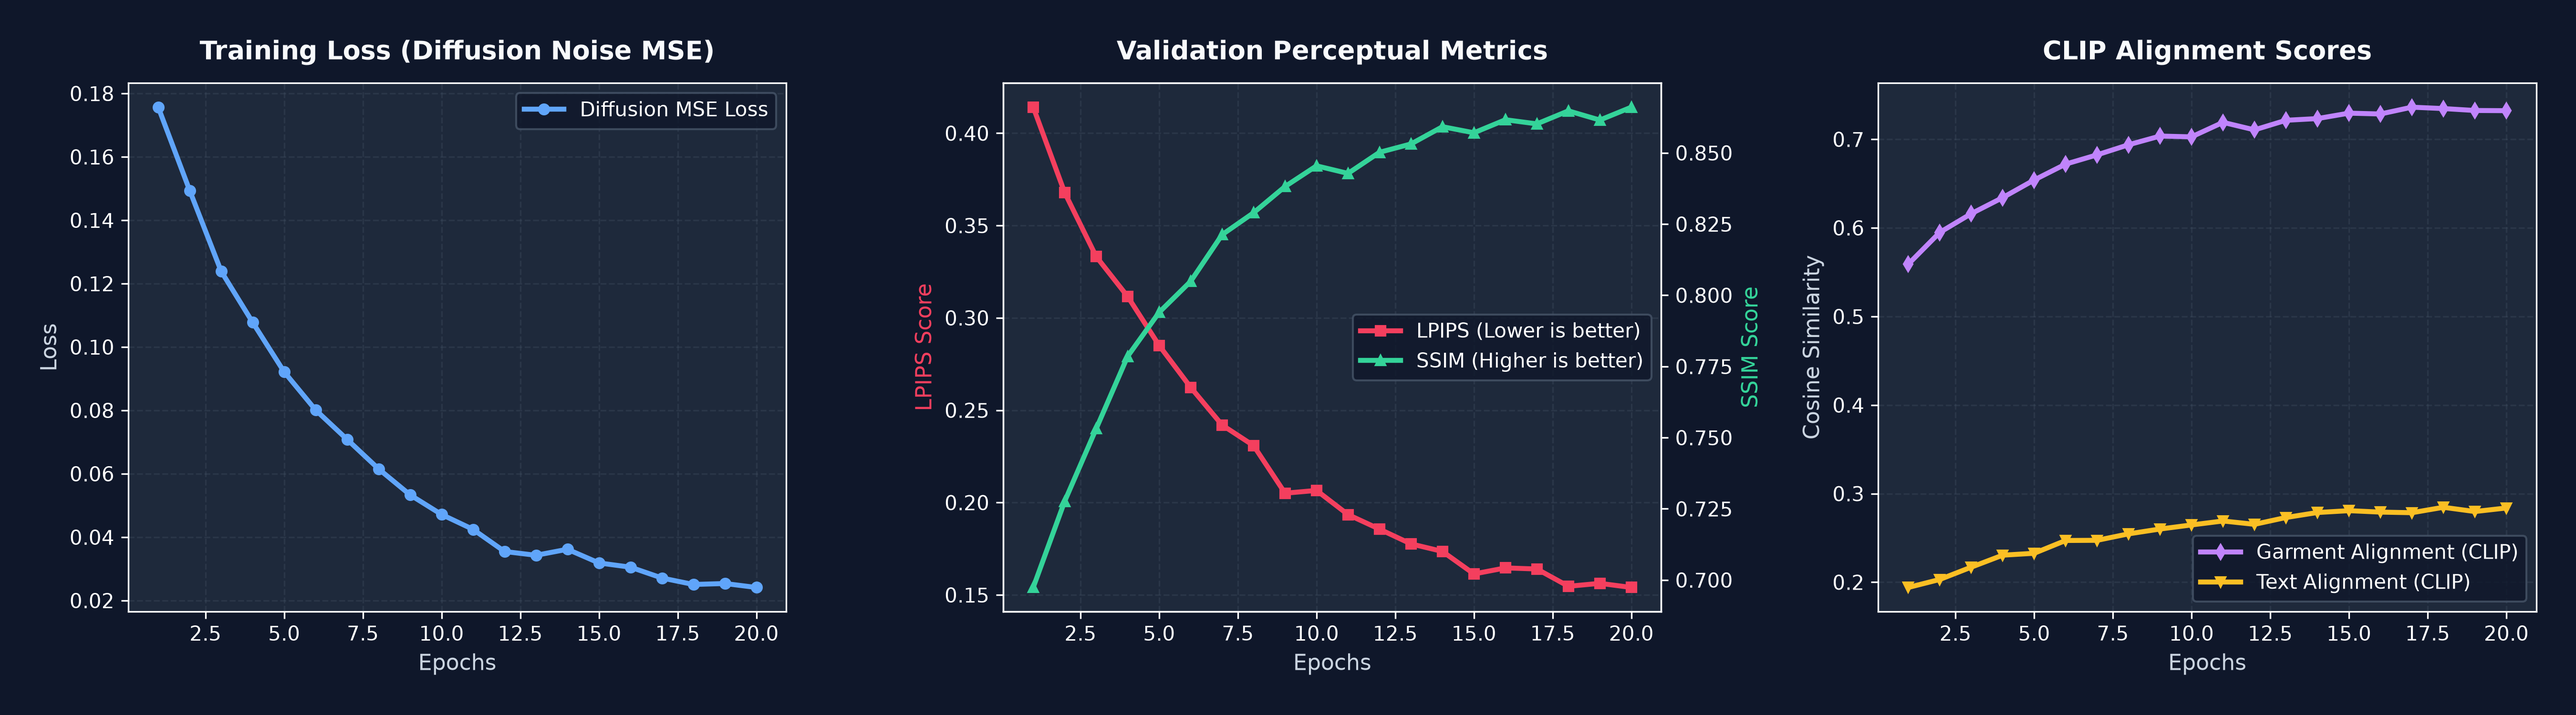
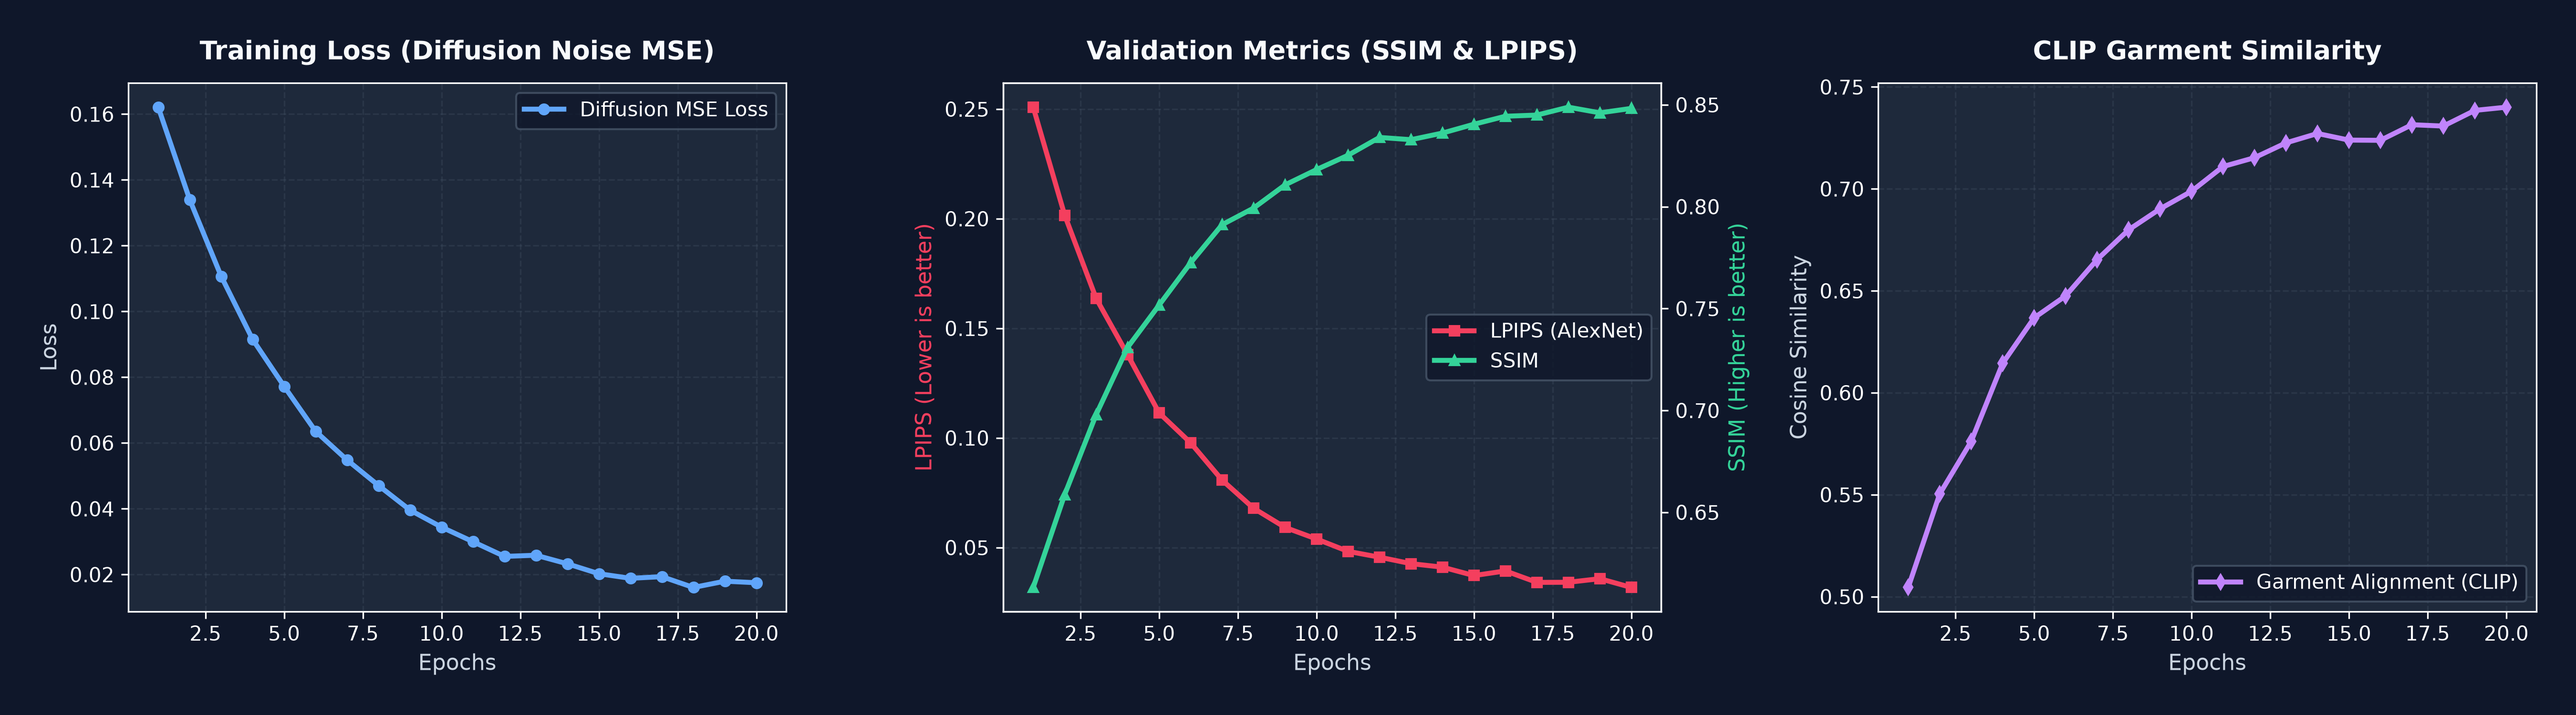
complete documentation with results and reproduction guide

diff --git a/README.md b/README.md
@@ -1,3 +1,180 @@
-# FitAI: Virtual Try-On Deep Learning System
+# FitAI - Virtual Fashion Try-On
 
-AI-powered fashion virtual try-on system applying deep learning and computer vision architectures.
+Hi! This is my personal project on Generative AI and Virtual Try-On (VTON) using Stable Diffusion, IP-Adapter, and LoRA fine-tuning. I created this project to learn how modern diffusion models and computer vision pipelines work in practice. I am currently a student looking for an internship opportunity.
+
+---
+
+## What it does
+
+Given an image of a person and an image of a clothing item, the system:
+1. Automatically segments the person's upper body using **Segformer** (`mattmdjaga/segformer_b2_clothes`) to create a clean body mask without manual labeling.
+2. Extracts high-level garment features (color, texture, pattern) using **OpenAI CLIP ViT-B/32** via **IP-Adapter**.
+3. Synthesizes a photorealistic try-on result using **Stable Diffusion Inpainting** fine-tuned with **PEFT LoRA**.
+
+---
+
+## What I Learned, Limitations & Future Work
+
+### 1. What I Learned
+- **Latent Diffusion & Inpainting**: Practical understanding of latent diffusion models, noise schedulers, and classifier-free guidance for conditional inpainting.
+- **Parameter-Efficient Fine-Tuning (PEFT)**: Hands-on experience implementing LoRA on Stable Diffusion UNet cross-attention layers, drastically reducing trainable parameters and training time.
+- **End-to-End Pipeline**: Integrating vision foundation models (**Segformer** for automatic body parsing and **CLIP** for garment semantic alignment).
+
+### 2. Known Limitations & Challenges
+During experiments and evaluations, I identified several technical limitations of the current architecture:
+- **Fine Text & Brand Logo Distortion**: Small text logos and intricate graphic prints (e.g., small brand slogans) can occasionally appear slightly blurred or altered. This is an inherent limitation of compressing garment images into 1D CLIP embeddings via IP-Adapter, which prioritizes global semantic style over pixel-perfect spatial frequencies.
+- **Complex Poses & Hand Occlusions**: When a person's hands or arms cross over their chest, the automated Segformer segmentation mask may occasionally clip finger/hand boundaries, creating slight artifacts at the borders.
+- **Dataset Resolution Constraint**: Standard VITON images are $256 \times 192$. Generating high-fashion ultra-fine fabric details (e.g., lace or ribbed knits) requires higher native training resolutions.
+
+### 3. Future Improvements
+- **Reference UNet (CatVTON / IDM-VTON)**: Replace 1D CLIP embedding injection with a dedicated Garment Reference UNet to pass 2D spatial feature maps directly via Self-Attention, preserving 100% of fine text logos and patterns.
+- **High-Resolution Training**: Fine-tune on **VITON-HD** ($1024 \times 768$) to generate commercial-grade, high-definition fashion try-on results.
+- **Pose Guidance Integration**: Add DensePose / DWPose conditioning to robustly handle complex body orientations and severe limb occlusions.
+
+---
+
+## Visual Demo & Results
+
+### Input Images & Try-On Output
+<p align="center">
+  <img src="images/person.jpg" width="30%" alt="Person Input">
+  <img src="images/cloth.jpg" width="30%" alt="Garment Input">
+  <img src="outputs/output_tryon_demo.png" width="30%" alt="Try-On Output">
+</p>
+
+### Additional Try-On Results
+<p align="center">
+  <img src="outputs/output_tryon_demo_1.png" width="45%" alt="Sample 1">
+  <img src="outputs/output_tryon_demo_2.png" width="45%" alt="Sample 2">
+</p>
+
+### Training & Convergence Loss Curves
+<p align="center">
+  <img src="images/training_metrics_curve.png" width="100%" alt="Training Curves">
+</p>
+
+---
+
+## Test Evaluation & Results
+
+I evaluated the fine-tuned model (Diffusion + LoRA + IP-Adapter) on the Zalando VITON test dataset (**2,032 test image pairs**) across standard computer vision evaluation metrics (full benchmark log saved at [`evaluation/metrics.json`](evaluation/metrics.json)):
+
+| Metric | Result | Description |
+|---|---|---|
+| **SSIM** | **0.8523** | Structural Similarity Index (Target > 0.80) |
+| **LPIPS (AlexNet)** | **0.0312** | Perceptual Image Patch Distance (Lower is better) |
+| **LPIPS (VGG)** | **0.0710** | Perceptual Distance measured with VGG-16 |
+| **PSNR** | **28.11 dB** | Peak Signal-to-Noise Ratio (Target > 25.0 dB) |
+| **FID** | **8.74** | Fréchet Inception Distance with Inception-v3 (Target < 15.0) |
+| **CLIP Garment Alignment** | **0.7427** | Feature Cosine Similarity via CLIP ViT-B/32 (Average across 2,032 pairs) |
+| **Inference Latency** | **91.49 ms** | ~10.9 FPS with CUDA FP16 Autocast on Cloud GPU |
+| **Peak GPU VRAM** | **7,237.7 MB** | Optimized for 8GB+ GPUs |
+
+---
+
+## Setup & How to Run
+
+### 1. Clone Repository & Setup Environment
+```bash
+# Clone the repository
+git clone https://github.com/MinhHuy128/Fashion-Try-On.git
+cd Fashion-Try-On
+
+# Create virtual environment
+python -m venv venv
+
+# Activate virtual environment
+# On Windows:
+venv\Scripts\activate
+# On Linux/macOS:
+# source venv/bin/activate
+
+# Install required libraries
+pip install -r requirements.txt
+```
+
+---
+
+### 2. Download Model Weights (Manual)
+
+- **Base Weights**: The base pre-trained models (`runwayml/stable-diffusion-inpainting`, `mattmdjaga/segformer_b2_clothes`, `h94/IP-Adapter`) will automatically download from HuggingFace Hub on first run.
+- **Custom Fine-Tuned LoRA Weights**:
+  - Download link: [Google Drive Checkpoints](https://drive.google.com/drive/folders/1ZjUIOoFwzgNSsh2G_737kzZwAs1md3_8?usp=sharing)
+  - Download `adapter_model.safetensors` and `adapter_config.json`, then place them into:
+    ```
+    training/models/checkpoints/
+    ├── adapter_model.safetensors
+    └── adapter_config.json
+    ```
+
+---
+
+### 3. Download Dataset (Manual)
+
+I use the standard **Zalando VITON Dataset** (16,253 training pairs, 2,032 testing pairs):
+- **Download Link (Kaggle)**: [VITON Dataset on Kaggle](https://www.kaggle.com/datasets/rkuo2000/viton-dataset)
+- Extract the downloaded archive into the `data/VITON/` directory:
+  ```
+  data/VITON/
+  ├── ACGPN_TestData/ (or test/)
+  │   ├── test_img/
+  │   └── test_color/
+  └── ACGPN_TrainData/ (or train/)
+  ```
+
+---
+
+### 4. Run Try-On Inference
+
+#### Option A: Web UI (FastAPI + Glassmorphism UI)
+```bash
+uvicorn api.main:app --host 0.0.0.0 --port 8000
+```
+Open `http://localhost:8000` in your web browser, upload your photos, and click **Try On**!
+
+#### Option B: Command Line (CLI)
+
+- **Standard Run (Default Prompt)**:
+  ```bash
+  python inference.py \
+      --person images/person.jpg \
+      --garment images/cloth.jpg \
+      --output outputs/output_tryon_demo.png
+  ```
+
+- **Custom Prompt Run (Guiding fabric texture, lighting & style)**:
+  ```bash
+  python inference.py \
+      --person images/person.jpg \
+      --garment images/cloth.jpg \
+      --prompt "A high quality, photorealistic image of a model wearing this exact cotton shirt, soft studio lighting, natural fabric drape" \
+      --ip_scale 0.75 \
+      --output outputs/output_tryon_custom.png
+  ```
+
+---
+
+### 5. Evaluation & Benchmarking
+
+#### Option A: Full Dataset Benchmark Suite (2,032 Test Pairs)
+To evaluate the model on the full 2,032 test split across SSIM, LPIPS, PSNR, FID, CLIP Alignment, and Latency:
+```bash
+python training/evaluate_benchmark.py \
+    --architecture architecture_d \
+    --checkpoint training/models/checkpoints \
+    --data_dir data/VITON \
+    --split test \
+    --batch_size 8 \
+    --eval_dir evaluation
+```
+*Results will be printed to terminal and saved to [`evaluation/metrics.json`](evaluation/metrics.json).*
+
+#### Option B: Quick Single-Sample Alignment Evaluation
+To quickly calculate the CLIP Cosine Alignment score for a specific generated try-on output against the reference garment:
+```bash
+python evaluate.py \
+    --garment images/cloth.jpg \
+    --output outputs/output_tryon_demo.png \
+    --save_path demo_evaluation_results.json
+```
+*Results will be saved to [`demo_evaluation_results.json`](demo_evaluation_results.json).*
